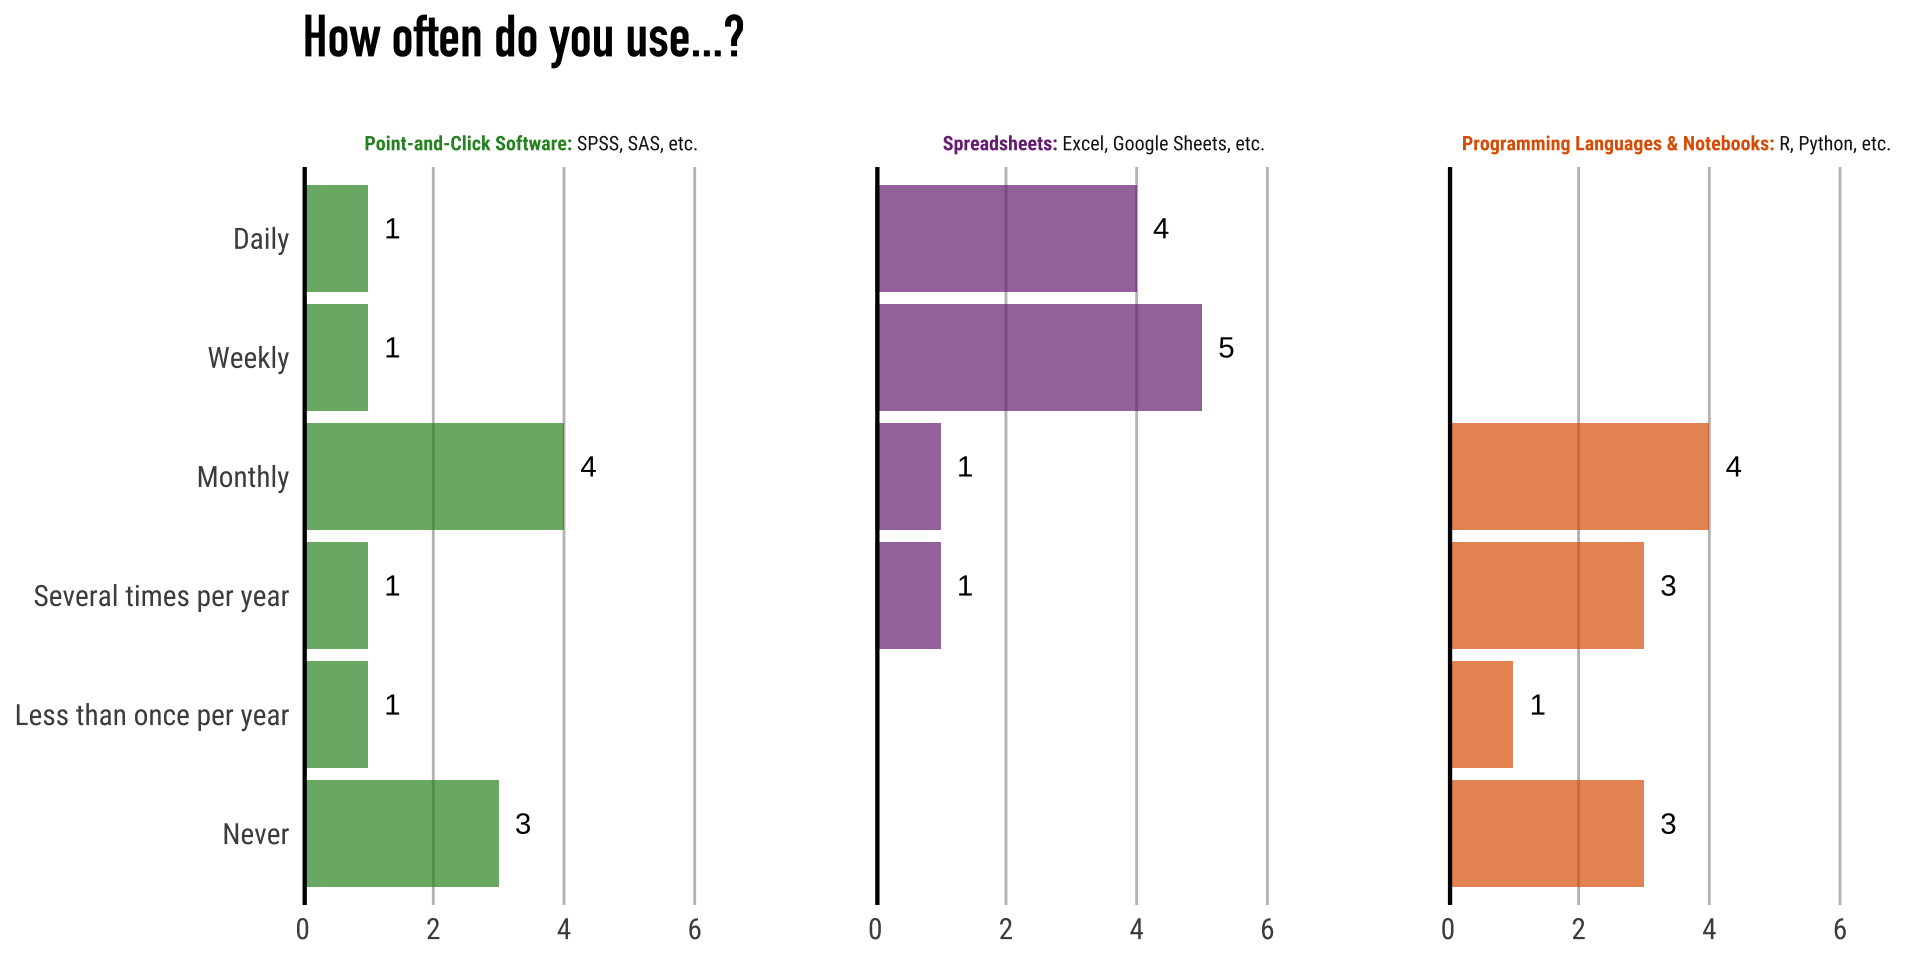
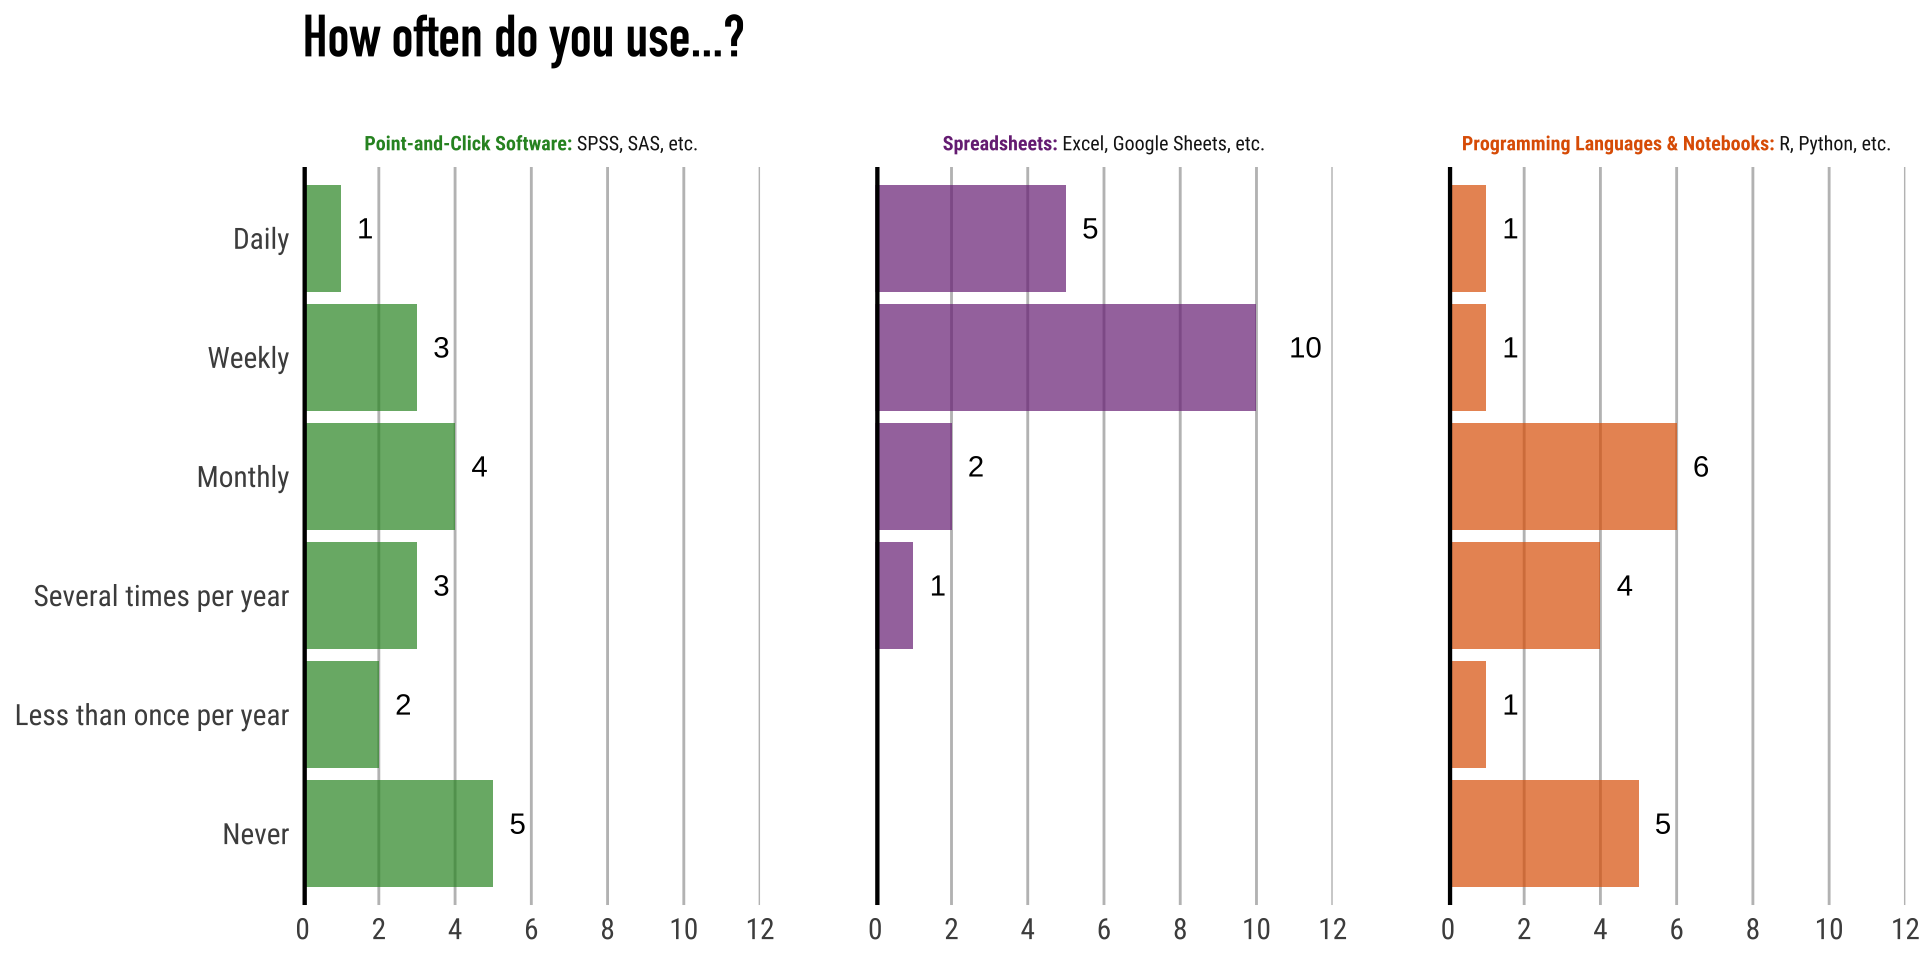
rendered the student interests slides

diff --git a/week-1/slides.html b/week-1/slides.html
@@ -323,9 +323,16 @@ Dr.&nbsp;Kelly Boles
 <div class="quarto-layout-row">
 <div class="quarto-layout-cell" style="flex-basis: 50.0%;justify-content: flex-start;">
 <ul>
-<li>Cross-Country Runner</li>
+<li>Cross-Country Runners &amp; Triatheletes</li>
 <li>Crosstitcher</li>
 <li>Multilingual</li>
+<li>New Chess Player</li>
+<li>Familial Stuffed-Crust Legacy</li>
+<li>Travelers</li>
+<li>Teachers</li>
+<li>Vol Families</li>
+<li>Music-makers</li>
+<li>Technicians</li>
 </ul>
 </div>
 <div class="quarto-layout-cell" style="flex-basis: 50.0%;justify-content: center;">
@@ -452,7 +459,7 @@ Dr.&nbsp;Kelly Boles
 ```
 title: "Example Quarto Document"
 author: "Fabulous Student"
-date: "2026-08-16"
+date: "2026-08-18"
 format:
   html:
     embed-resources: true
@@ -474,7 +481,7 @@ execute:
 ```
 title: "Example Quarto Document"
 author: "Fabulous Student"
-date: "2026-08-16"
+date: "2026-08-18"
 format:
   html:
     embed-resources: true
